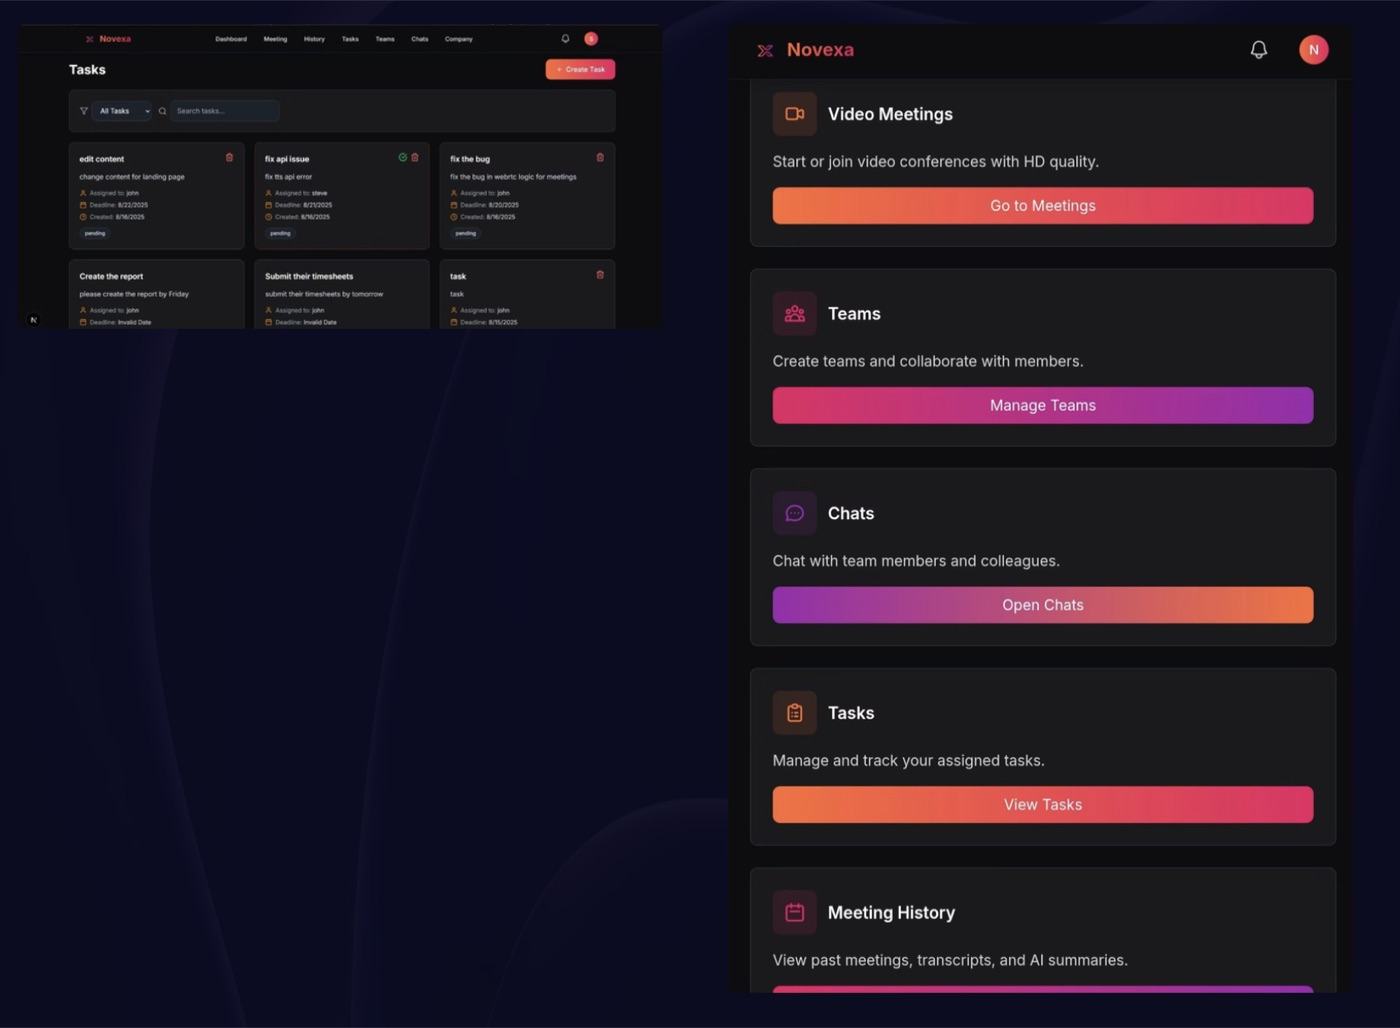
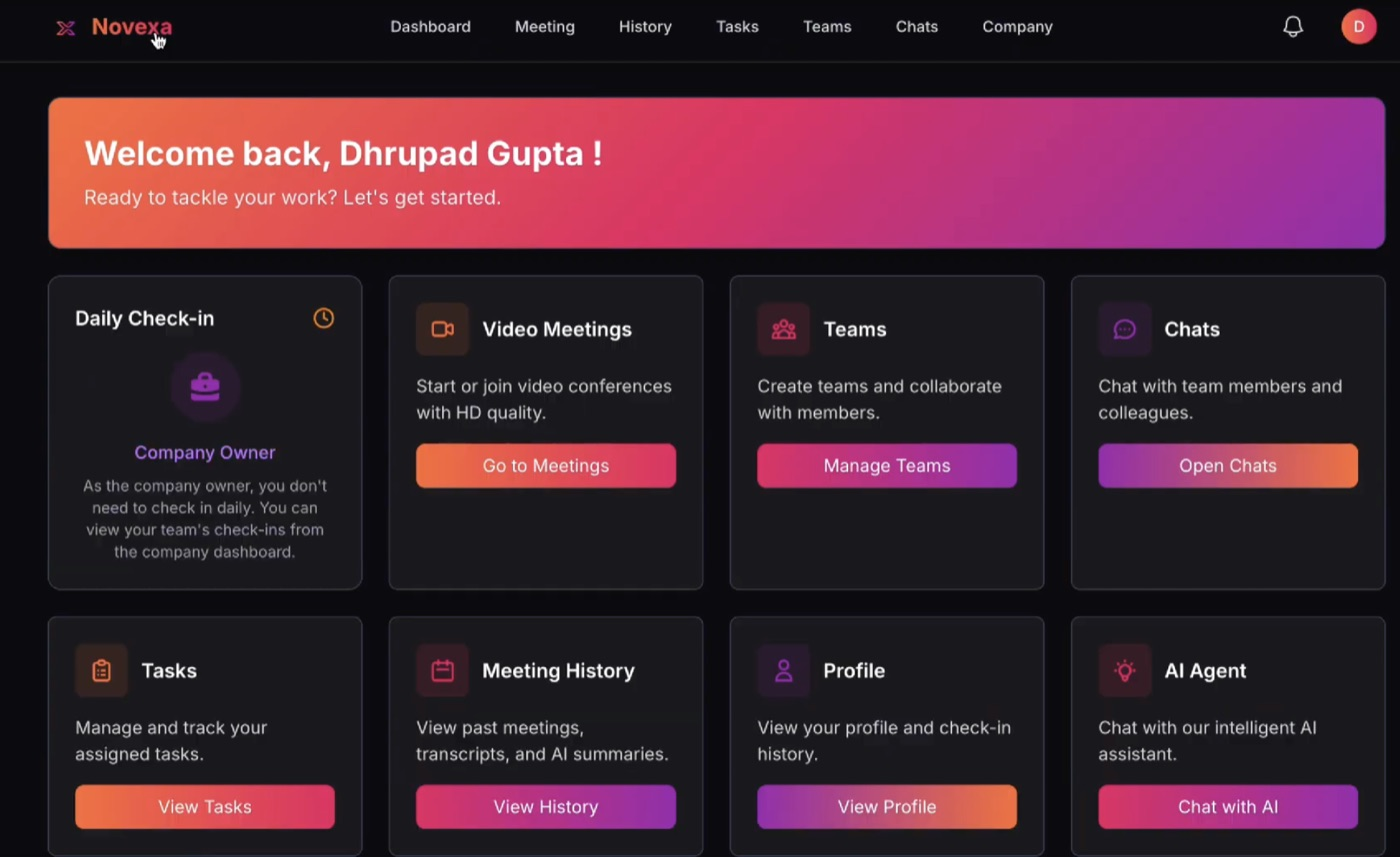
Add GitHub projects and correct unsupported copy
- Add FactoryMind and Egg Segmentation; rewrite LogicForge and Novexa
  with real screenshots and live, video and code links
- Remove claims not backed by the resume or repos; credit Novexa's team
- Drop unowned domain logo and meta tags pointing at a 404 address
- Add skills shown by the projects; keep nav ids stable between renders

diff --git a/src/data.js b/src/data.js
@@ -8,7 +8,7 @@ export const profile = {
   linkedin: "https://linkedin.com/in/dhrupad-gupta-483046296",
   resume: "/resume.pdf",
   summary:
-    "I build backend systems that stay fast and reliable under load — secure REST APIs, tuned databases and cloud-deployed services. I'm drawn to the layers underneath: processes, threads, networking and how distributed systems fail. Currently a B.Tech student at SGSITS, Indore, looking for software engineering internships and new-grad roles.",
+    "I'm a B.Tech student at SGSITS, Indore with foundations in operating systems, Python, C++ and backend development. I've built secure REST APIs, optimized databases and deployed cloud-based services, and I'm interested in distributed systems, debugging and backend architecture.",
 };
 
 export const stats = [
@@ -43,28 +43,55 @@ export const experience = [
 
 export const projects = [
   {
+    title: "FactoryMind",
+    badge: "RAG · hit@5 0.974",
+    image: "/factorymind.jpg",
+    description:
+      "Troubleshooting assistant for factory maintenance. It combines vector, full-text and exact fault-code search in Postgres, drafts cited diagnoses with an LLM, then checks each claim against its sources. Hybrid search reached hit@5 of 0.974 on a 38-question test set, against 0.763 for vector and 0.947 for keyword search alone. Uses synthetic demo data.",
+    tech: ["FastAPI", "PostgreSQL", "pgvector", "Next.js", "LLMs"],
+    links: [{ label: "Code", href: "https://github.com/dhrupad1304/factorymind" }],
+  },
+  {
+    title: "LogicForge AI",
+    badge: "Verified Verilog",
+    image: "/logicforge.webp",
+    description:
+      "Describe a circuit in plain English and get Verilog that is compiled, simulated and tested against a separately generated reference model, with pass or fail for each test case, waveforms and schematics. The live demo is password-protected.",
+    tech: ["FastAPI", "Next.js", "TypeScript", "Docker", "Icarus Verilog"],
+    links: [
+      { label: "Live demo", href: "https://logic-forge-ai.vercel.app" },
+      { label: "Code", href: "https://github.com/dhrupad1304/LogicForge-AI" },
+    ],
+  },
+  {
     title: "Novexa — AI Meeting Platform",
     badge: "Top 50 Worldwide · IBM TechXchange",
     image: "/novexa.jpg",
     description:
-      "Team collaboration platform with video meetings, chats, task tracking and AI meeting summaries. I built the backend automation workflows and cloud integrations, and hardened reliability under hackathon deadlines.",
-    tech: ["Node.js", "IBM Cloud", "REST APIs", "WebRTC"],
-    links: [{ label: "Code", href: "https://github.com/dhrupad1304/novexa-ai-meeting-platform" }],
+      "Team collaboration platform with video meetings, chat, task tracking and an AI assistant built on IBM watsonx, made by a team of five. I worked on backend automation workflows and cloud integrations.",
+    tech: ["Next.js", "Node.js", "MongoDB", "IBM watsonx", "WebSockets"],
+    links: [
+      { label: "Live app", href: "https://novexa-cyan.vercel.app/" },
+      { label: "Video", href: "https://youtu.be/zdVjuxpx4rE" },
+      { label: "Code", href: "https://github.com/dhrupad1304/novexa-ai-meeting-platform" },
+    ],
   },
   {
-    title: "LogicForge AI",
-    image: null,
+    title: "Egg Segmentation & Tracking",
+    badge: "Computer vision",
+    image: "/vision-seg.jpg",
+    fit: "contain",
     description:
-      "AI-powered hardware design assistant: generates Verilog from natural language, creates testbenches, runs simulations and helps debug the results.",
-    tech: ["Python", "LLMs", "Verilog", "Simulation"],
-    links: [{ label: "Code", href: "https://github.com/dhrupad1304/LogicForge-AI" }],
+      "Classical OpenCV segmentation compared with Segment Anything (SAM) masks across a series of experiments, plus a baseline video tracker. Mean Dice of 0.645 on 22 held-out images, measured against SAM pseudo-labels.",
+    tech: ["Python", "OpenCV", "SAM", "NumPy"],
+    links: [{ label: "Code", href: "https://github.com/dhrupad1304/Vision_seg" }],
   },
   {
     title: "Expense Tracker 2.0",
     badge: "MERN",
     image: "/expense-tracker.jpg",
     description:
-      "Secure backend with JWT authentication and a modular REST API. Reduced API latency through schema redesign and MongoDB query optimization.",
+      "Secure backend with JWT authentication and a modular REST API. Reduced API latency through schema improvements and MongoDB query optimization.",
     tech: ["Node.js", "Express.js", "MongoDB", "JWT"],
     links: [],
   },
@@ -80,12 +107,12 @@ export const projects = [
 ];
 
 export const skills = [
-  { group: "Languages", items: ["Python", "C++", "C", "JavaScript"] },
-  { group: "Backend", items: ["Node.js", "Express.js", "REST APIs", "JWT"] },
+  { group: "Languages", items: ["Python", "C++", "C", "JavaScript", "TypeScript"] },
+  { group: "Backend & web", items: ["FastAPI", "Node.js", "Express.js", "REST APIs", "JWT", "React", "Next.js"] },
   { group: "Systems", items: ["Linux", "Processes & threads", "TCP/IP", "HTTP"] },
-  { group: "Databases", items: ["MongoDB", "MySQL", "Indexing", "Query optimization"] },
-  { group: "Cloud & tools", items: ["IBM Cloud Functions", "AWS", "CI/CD", "Git"] },
-  { group: "ML", items: ["Scikit-learn", "Pandas", "NumPy"] },
+  { group: "Databases", items: ["PostgreSQL", "pgvector", "MongoDB", "MySQL", "Indexing", "Query optimization"] },
+  { group: "Cloud & tools", items: ["IBM Cloud Functions", "AWS", "Docker", "CI/CD", "Git"] },
+  { group: "AI & ML", items: ["LLM APIs", "RAG", "OpenCV", "Scikit-learn", "Pandas", "NumPy"] },
 ];
 
 export const education = {

diff --git a/src/Portfolio.jsx b/src/Portfolio.jsx
@@ -9,6 +9,7 @@ const NAV = [
   { id: "skills", label: "Skills" },
   { id: "contact", label: "Contact" },
 ];
+const NAV_IDS = NAV.map((n) => n.id);
 
 const fadeUp = {
   initial: { opacity: 0, y: 16 },
@@ -121,7 +122,7 @@ function Tag({ children }) {
 export default function Portfolio() {
   const [dark, setDark] = useTheme();
   const [menuOpen, setMenuOpen] = useState(false);
-  const active = useActiveSection(NAV.map((n) => n.id));
+  const active = useActiveSection(NAV_IDS);
 
   return (
     <MotionConfig reducedMotion="user">
@@ -133,7 +134,7 @@ export default function Portfolio() {
       <header className="fixed inset-x-0 top-0 z-40 border-b border-line/70 bg-bg/80 backdrop-blur-md">
         <nav className="mx-auto flex h-16 max-w-5xl items-center justify-between px-4 sm:px-6" aria-label="Primary">
           <a href="#top" className="font-mono text-sm font-semibold">
-            dhrupad<span className="text-accent">.dev</span>
+            dhrupad<span className="text-accent">_</span>
           </a>
           <ul className="hidden items-center gap-1 md:flex">
             {NAV.map((n) => (
@@ -202,7 +203,7 @@ export default function Portfolio() {
                 <span className="absolute inline-flex h-full w-full animate-ping rounded-full bg-emerald-500 opacity-60 motion-reduce:hidden" />
                 <span className="relative inline-flex h-2 w-2 rounded-full bg-emerald-500" />
               </span>
-              Open to SWE internships & new-grad roles
+              B.Tech student · SGSITS Indore · Class of 2027
             </p>
             <h1 className="mt-6 text-5xl font-semibold tracking-tight sm:text-7xl">
               {profile.name}
@@ -289,27 +290,15 @@ export default function Portfolio() {
                 className="group flex flex-col overflow-hidden rounded-2xl border border-line bg-surface transition-shadow hover:shadow-xl hover:shadow-black/5 dark:hover:shadow-black/40"
               >
                 <div className="aspect-[16/10] overflow-hidden border-b border-line bg-bg">
-                  {p.image ? (
-                    <img
-                      src={p.image}
-                      alt={`${p.title} screenshot`}
-                      loading="lazy"
-                      decoding="async"
-                      className="h-full w-full object-cover object-top transition-transform duration-500 group-hover:scale-[1.03]"
-                    />
-                  ) : (
-                    <div className="grid h-full place-items-center bg-gradient-to-br from-accent/15 via-transparent to-emerald-500/10">
-                      <pre className="font-mono text-xs leading-relaxed text-muted sm:text-sm">
-{`module counter(
-  input  clk, rst,
-  output reg [3:0] q
-);
-  always @(posedge clk)
-    q <= rst ? 0 : q + 1;
-endmodule`}
-                      </pre>
-                    </div>
-                  )}
+                  <img
+                    src={p.image}
+                    alt={`${p.title} screenshot`}
+                    loading="lazy"
+                    decoding="async"
+                    className={`h-full w-full transition-transform duration-500 group-hover:scale-[1.03] ${
+                      p.fit === "contain" ? "bg-black object-contain" : "object-cover object-left-top"
+                    }`}
+                  />
                 </div>
                 <div className="flex flex-1 flex-col p-6">
                   <div className="flex flex-wrap items-center gap-2">
@@ -377,9 +366,9 @@ endmodule`}
         <section id="contact" className="scroll-mt-24 py-24 text-center">
           <motion.div {...fadeUp}>
             <p className="font-mono text-sm text-accent">05 — Contact</p>
-            <h2 className="mt-2 text-4xl font-semibold tracking-tight sm:text-5xl">Let's build something.</h2>
+            <h2 className="mt-2 text-4xl font-semibold tracking-tight sm:text-5xl">Get in touch</h2>
             <p className="mx-auto mt-4 max-w-xl text-lg text-muted">
-              I'm looking for software engineering internships and new-grad roles in backend, systems and cloud. My inbox is open.
+              The quickest way to reach me is email.
             </p>
             <div className="mt-8 flex flex-wrap justify-center gap-3">
               <a href={`mailto:${profile.email}`} className="inline-flex items-center gap-2 rounded-xl bg-accent px-6 py-3 font-medium text-white shadow-lg shadow-accent/20 hover:bg-accent/90">

diff --git a/index.html b/index.html
@@ -7,12 +7,9 @@
     <meta name="description" content="Dhrupad Gupta — Software Engineer focused on backend, distributed systems and operating systems. Top 50 worldwide at IBM TechXchange Hackathon 2025." />
     <meta name="author" content="Dhrupad Gupta" />
     <meta name="theme-color" content="#0a0a0c" />
-    <link rel="canonical" href="https://dhrupad-portfolio.vercel.app/" />
     <meta property="og:type" content="website" />
     <meta property="og:title" content="Dhrupad Gupta — Software Engineer" />
     <meta property="og:description" content="Backend · Distributed Systems · Operating Systems. Top 50 worldwide, IBM TechXchange Hackathon 2025." />
-    <meta property="og:url" content="https://dhrupad-portfolio.vercel.app/" />
-    <meta property="og:image" content="https://dhrupad-portfolio.vercel.app/novexa.jpg" />
     <meta name="twitter:card" content="summary_large_image" />
     <link rel="icon" href="/favicon.svg" type="image/svg+xml" />
     <link rel="preconnect" href="https://fonts.googleapis.com" />
